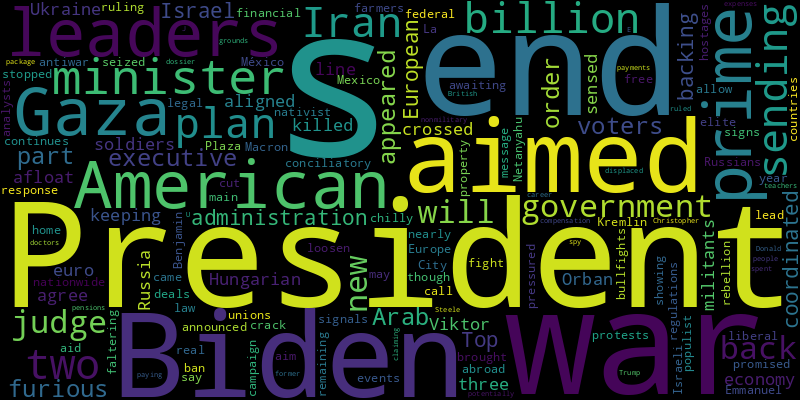
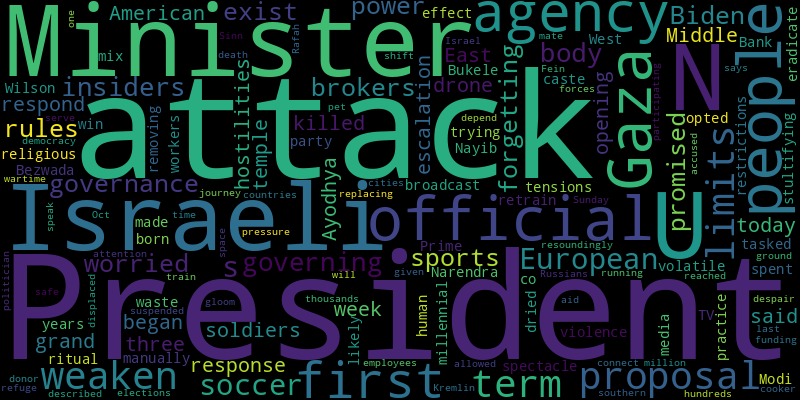
chore(bot): 🙈 auto commit

diff --git a/README.md b/README.md
@@ -2,41 +2,41 @@
 Auto RSS New York Times and Generate Word Cloud
 
 ## New York Times Global News
-* President Biden’s executive order appeared to be aimed in part at Arab American voters who are furious with his administration’s backing of Israel in the war in Gaza.
-* Top European leaders coordinated to get the Hungarian prime minister, Viktor Orban, to agree to the 50-billion-euro plan aimed at keeping Ukraine’s economy afloat during the war with Russia.
-* After Iran-aligned militants killed three American soldiers, Iran’s leaders sensed a line was crossed, and are sending more conciliatory signals while awaiting President Biden’s promised response.
-* The call from two main farmers’ unions came after President Emmanuel Macron’s government announced new financial aid and plans to loosen regulations to end the nationwide protests.
-* After a nearly two-year ban, a legal ruling brought bullfights back to La Plaza México in Mexico City. But the fight continues after a federal judge again stopped the events.
-* The Kremlin is sending a chilly message to antiwar Russians abroad: A new law will allow their property back home to be seized, and other countries are being pressured to crack down on them.
-* His real aim is to lead a populist and nativist rebellion against Europe’s liberal elite, though that campaign is showing signs of faltering.
-* To end the war in Gaza and free the remaining Israeli hostages, Prime Minister Benjamin Netanyahu may have to cut deals that analysts say could end his government — and potentially his career.
-* A judge ruled that Donald J. Trump had no grounds for claiming compensation over the dossier from Christopher Steele, a former British spy.
-* The E.U. package of about $54 billion will be spent on nonmilitary expenses, like pensions, payments to displaced people and paying teachers and doctors.
+* A proposal that would weaken term limits at European soccer’s governing body has insiders and governance officials worried that sports’ power brokers are forgetting why the rules exist.
+* President Biden had promised to respond to the drone attack that killed three American soldiers this week. “Our response began today,” he said, in an escalation of hostilities in the Middle East.
+* The grand opening of a temple in Ayodhya was both a religious ritual and a made-for-TV spectacle for a broadcast media co-opted by Prime Minister Narendra Modi.
+* The volatile mix of violence, tensions and Israeli restrictions has had a stultifying effect on the West Bank.
+* Bezwada Wilson, born into a caste tasked with manually removing dried human waste, has spent 40 years trying to eradicate the practice and retrain workers.
+* The millennial president, Nayib Bukele, and his party are likely to win resoundingly in elections Sunday. His running mate says they are “replacing” democracy.
+* A U.N. official described Rafah, a refuge for hundreds of thousands of displaced people, as a “pressure cooker of despair.” It is one of the last cities in southern Gaza that Israeli ground forces have not reached.
+* After 12 employees of the U.N. agency were accused of participating in the Oct. 7 attack against Israel, some donor countries have suspended funding. But more than a million people in Gaza depend on the agency for aid.
+* For the first time, a Sinn Fein politician will serve as first minister.
+* The death of a pet during a train journey has given Russians a safe space to speak out and connect, and allowed the Kremlin to shift attention from wartime gloom.
 
 ![Global](./global.png)
 ## New York Times United States News
-* The state’s latest powerful storm has downed trees and flooded some roads, but has not yet caused the scale of disruption seen last winter.
-* Conservatives say diversity and equity programs are more divisive than unifying.
+* The candidates had promised to challenge the university’s leadership, but failed to collect enough signatures to get on the ballot for the board.
+* But the prosecutor, Fani T. Willis, said her relationship with Nathan Wade did not begin until after she hired him and argued that it should not disqualify her.
+* Closing arguments concluded on Friday in the trial against Jennifer Crumbley, whose son, Ethan, killed four people at his high school in 2021.
 * A lawsuit accused the state of failing to provide an equal education to lower-income, Black and Hispanic students during the pandemic.
-* The Oregon Supreme Court ruled they could not seek re-election after they repeatedly boycotted legislative sessions.
-* The document was signed by government employees in 12 nations and E.U. institutions. Signers say their leaders’ policies could be contributing to war crimes in Gaza.
-* New research finds that former President Donald J. Trump’s tariffs did not bring back U.S. jobs, but voters appeared to reward him for the levies anyway.
-* Speaker Mike Johnson, who once routinely stopped for hallway interviews, has taken to pressing his iPhone to his ear as he walks through the Capitol, avoiding questions as he navigates a tough new job.
-* An extreme shortage of guards at Wisconsin’s prisons has slowed basic operations to a crawl. Inmates escaped, prisons locked down and conditions deteriorated.
-* The pilot reported an engine failure before the single-engine plane crashed into a home, setting the area on fire.
-* The police declined to say what the connection was between the child whose remains were found in a storage unit in Pueblo, Colo., and two children last seen in 2018.
+* Stumping for the president ahead of South Carolina’s Democratic primary, Ms. Harris has been working to shore up his vulnerabilities with Black voters and younger voters.
+* The implications have started coming into focus with the scrapping of March 4 as the start date for the former president’s federal trial on charges of trying to overturn the 2020 election.
+* Demonstrators have turned up at the secretary of state’s home and even splashed fake blood on his motorcade.
+* Donald Trump has long worked closely with Ronna McDaniel, the head of the Republican National Committee. In private, he has begun to question its direction under her leadership.
+* Wealthy, liberal-leaning Blue Hill prided itself on staying above the fray — until the library stocked a book that drew anger from the left.
+* As libraries become battlegrounds in the nation’s culture wars, their allies are fighting to preserve access to their collections and keep themselves out of jail, or worse.
 
 ![US](./usnews.png)
 ## New York Times Asia News
+* The grand opening of a temple in Ayodhya was both a religious ritual and a made-for-TV spectacle for a broadcast media co-opted by Prime Minister Narendra Modi.
+* Despite being wounded multiple times, he led the defense of a jungle outpost against a Vietcong assault, inspiring his smaller force to “superhuman effort.”
+* Birds, be careful: Loitering at an Indian port with a microchip on your leg can make people nervous and get you locked up.
 * His release has been set for August 2028 and his fine reduced to a quarter of its original amount, a move that has drawn criticism from observers and citizens.
-* China Renaissance Holdings said that its chairman and chief executive, Bao Fan, has stepped down after disappearing nearly a year ago.
+* China Renaissance Holdings said its chairman and chief executive, Bao Fan, had stepped down after disappearing nearly a year ago.
 * The death of a pet during a train journey has given Russians a safe space to speak out and connect, and allowed the Kremlin to shift attention from wartime gloom.
 * Bezwada Wilson, born into a caste tasked with manually removing dried human waste, has spent 40 years trying to eradicate the practice and retrain workers.
 * The companies that make iPhones are bringing their factories to one corner of India, to graft them onto a network of manufacturers.
 * Negotiations have resumed on restricting the flow of fentanyl into the United States. But Beijing may prove less cooperative on Iran and North Korea.
 * Also, U.S. sanctions on Israeli settlers and battles over bullfighting.
-* He was captured by the Japanese in Singapore and was one of thousands of prisoners whose hardships were the basis for the film “The Bridge on the River Kwai.”
-* A scandal involving the president’s spouse has become a major issue for his party ahead of a crucial parliamentary election.
-* It is the first major art museum in New York to close within recent memory. It said it would now focus on traveling exhibitions and long-term loans.
 
 ![Asian](./asian.png)
